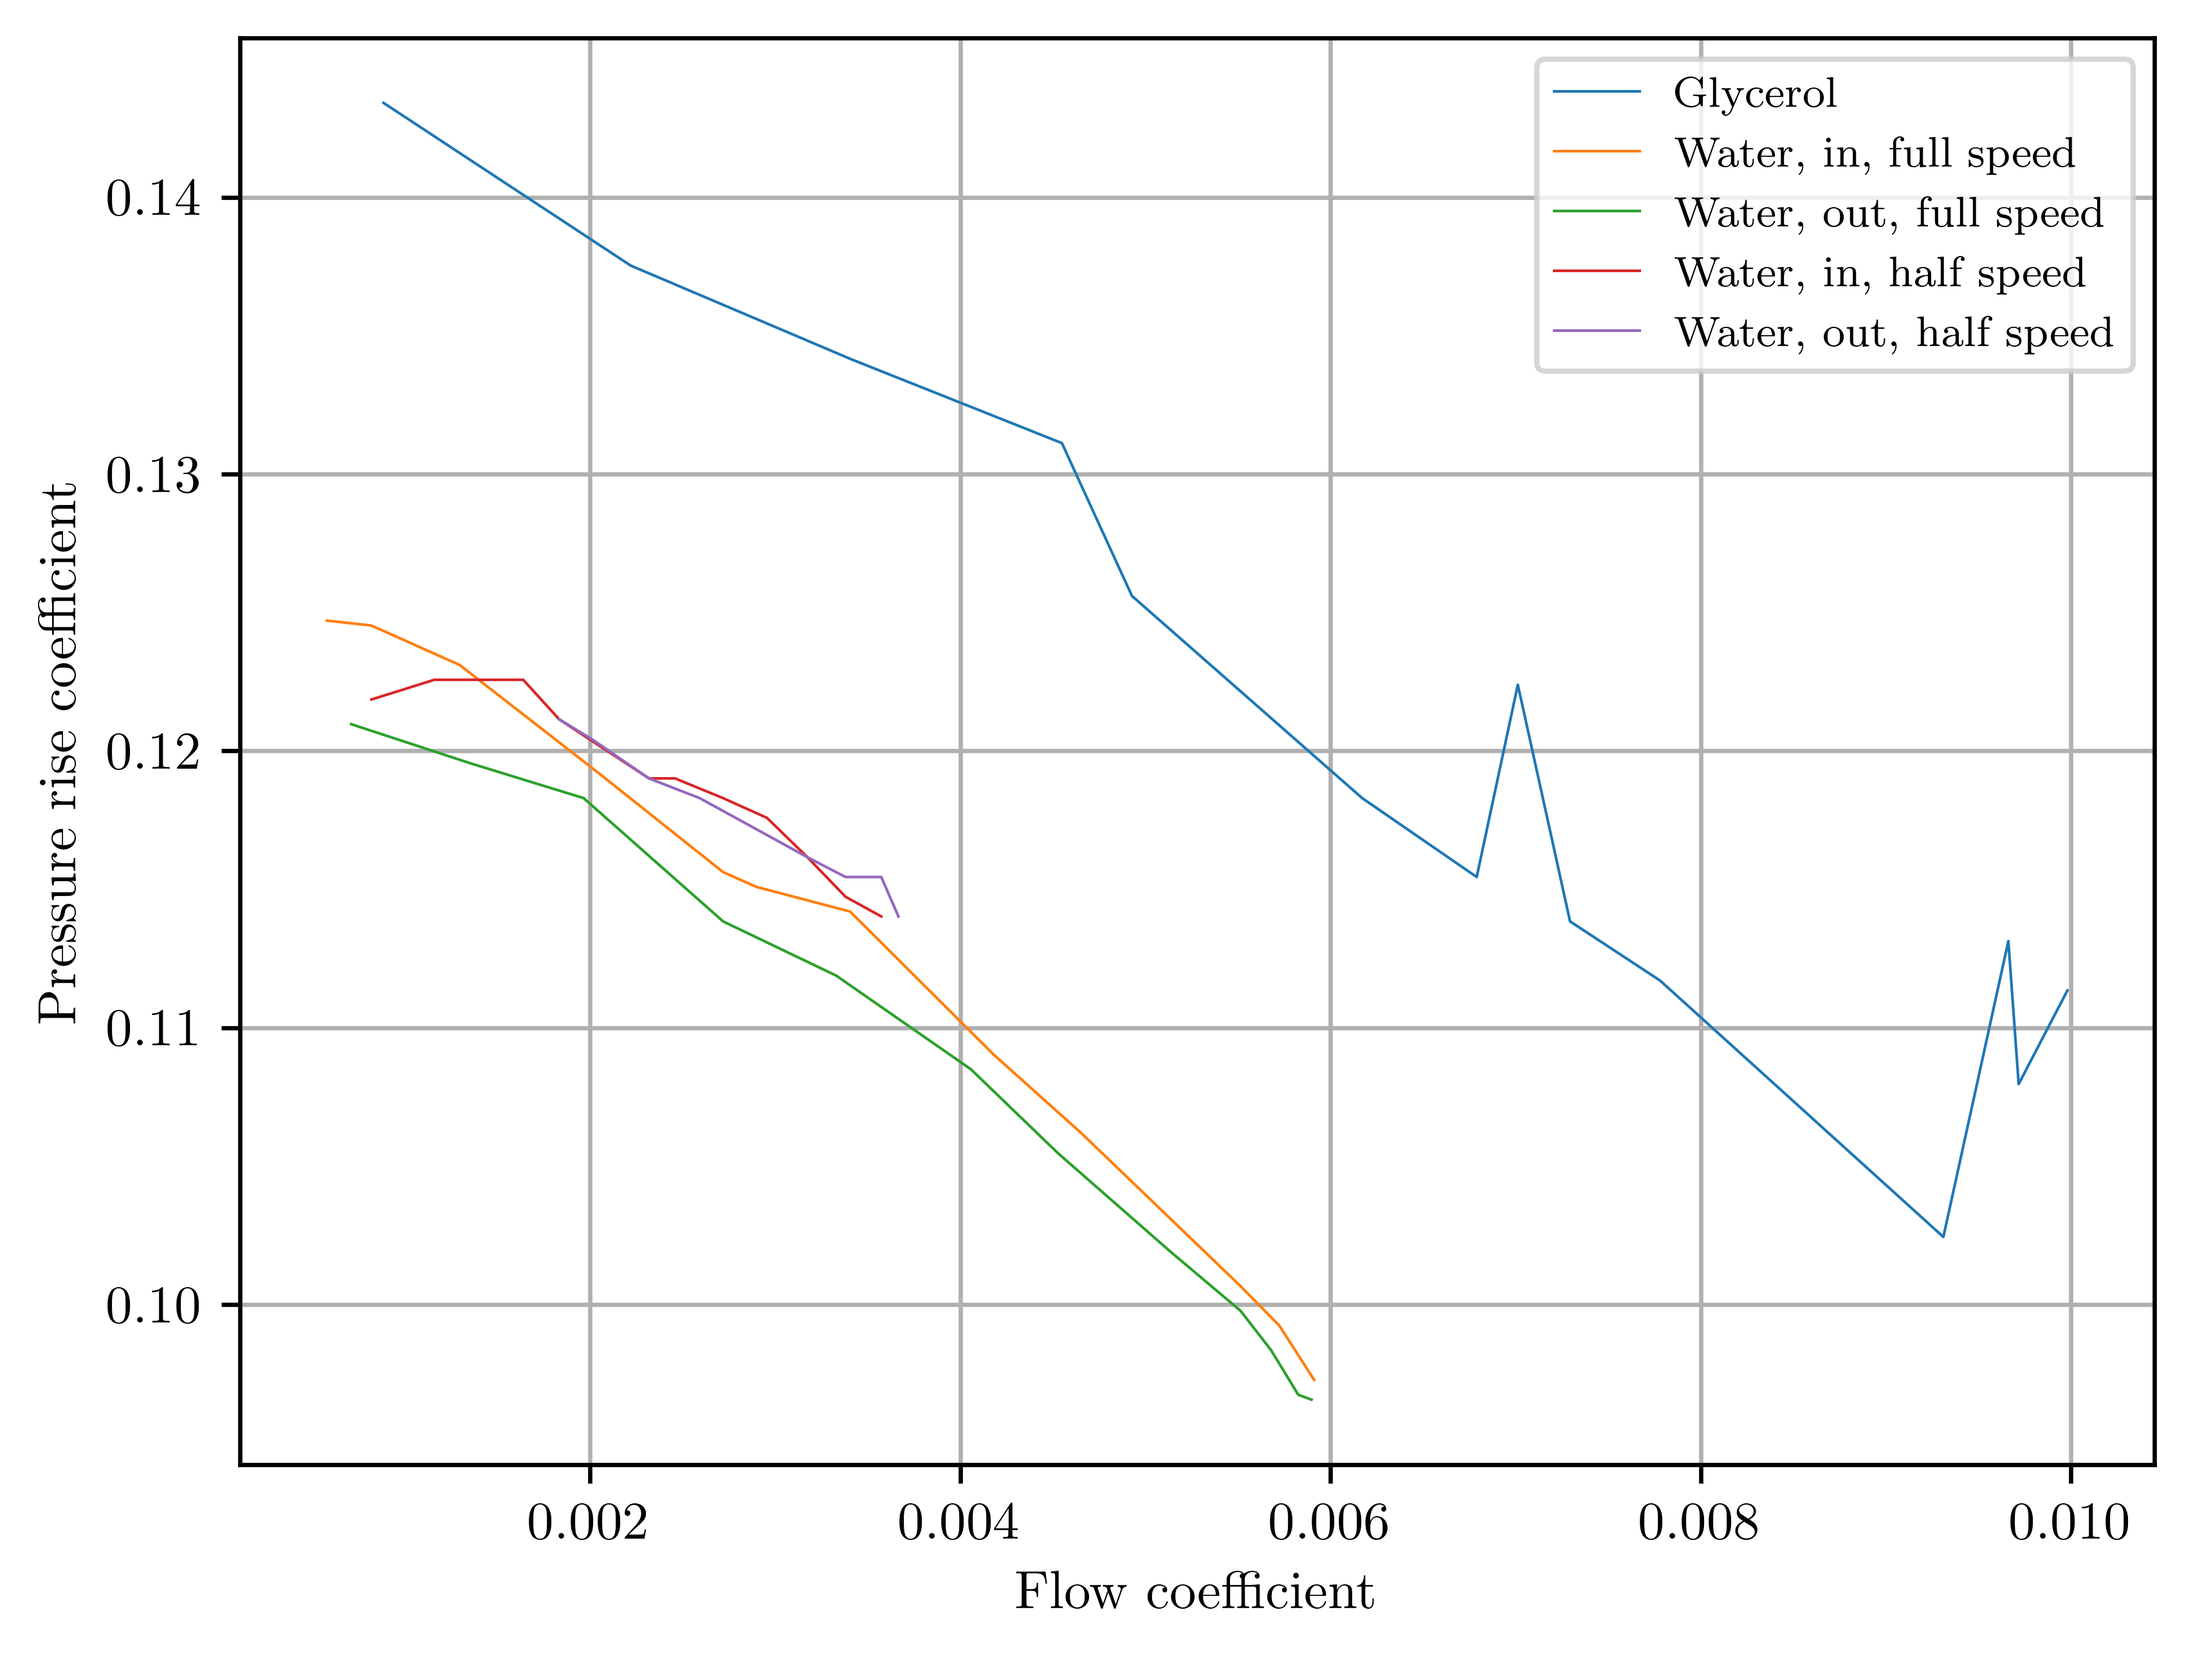
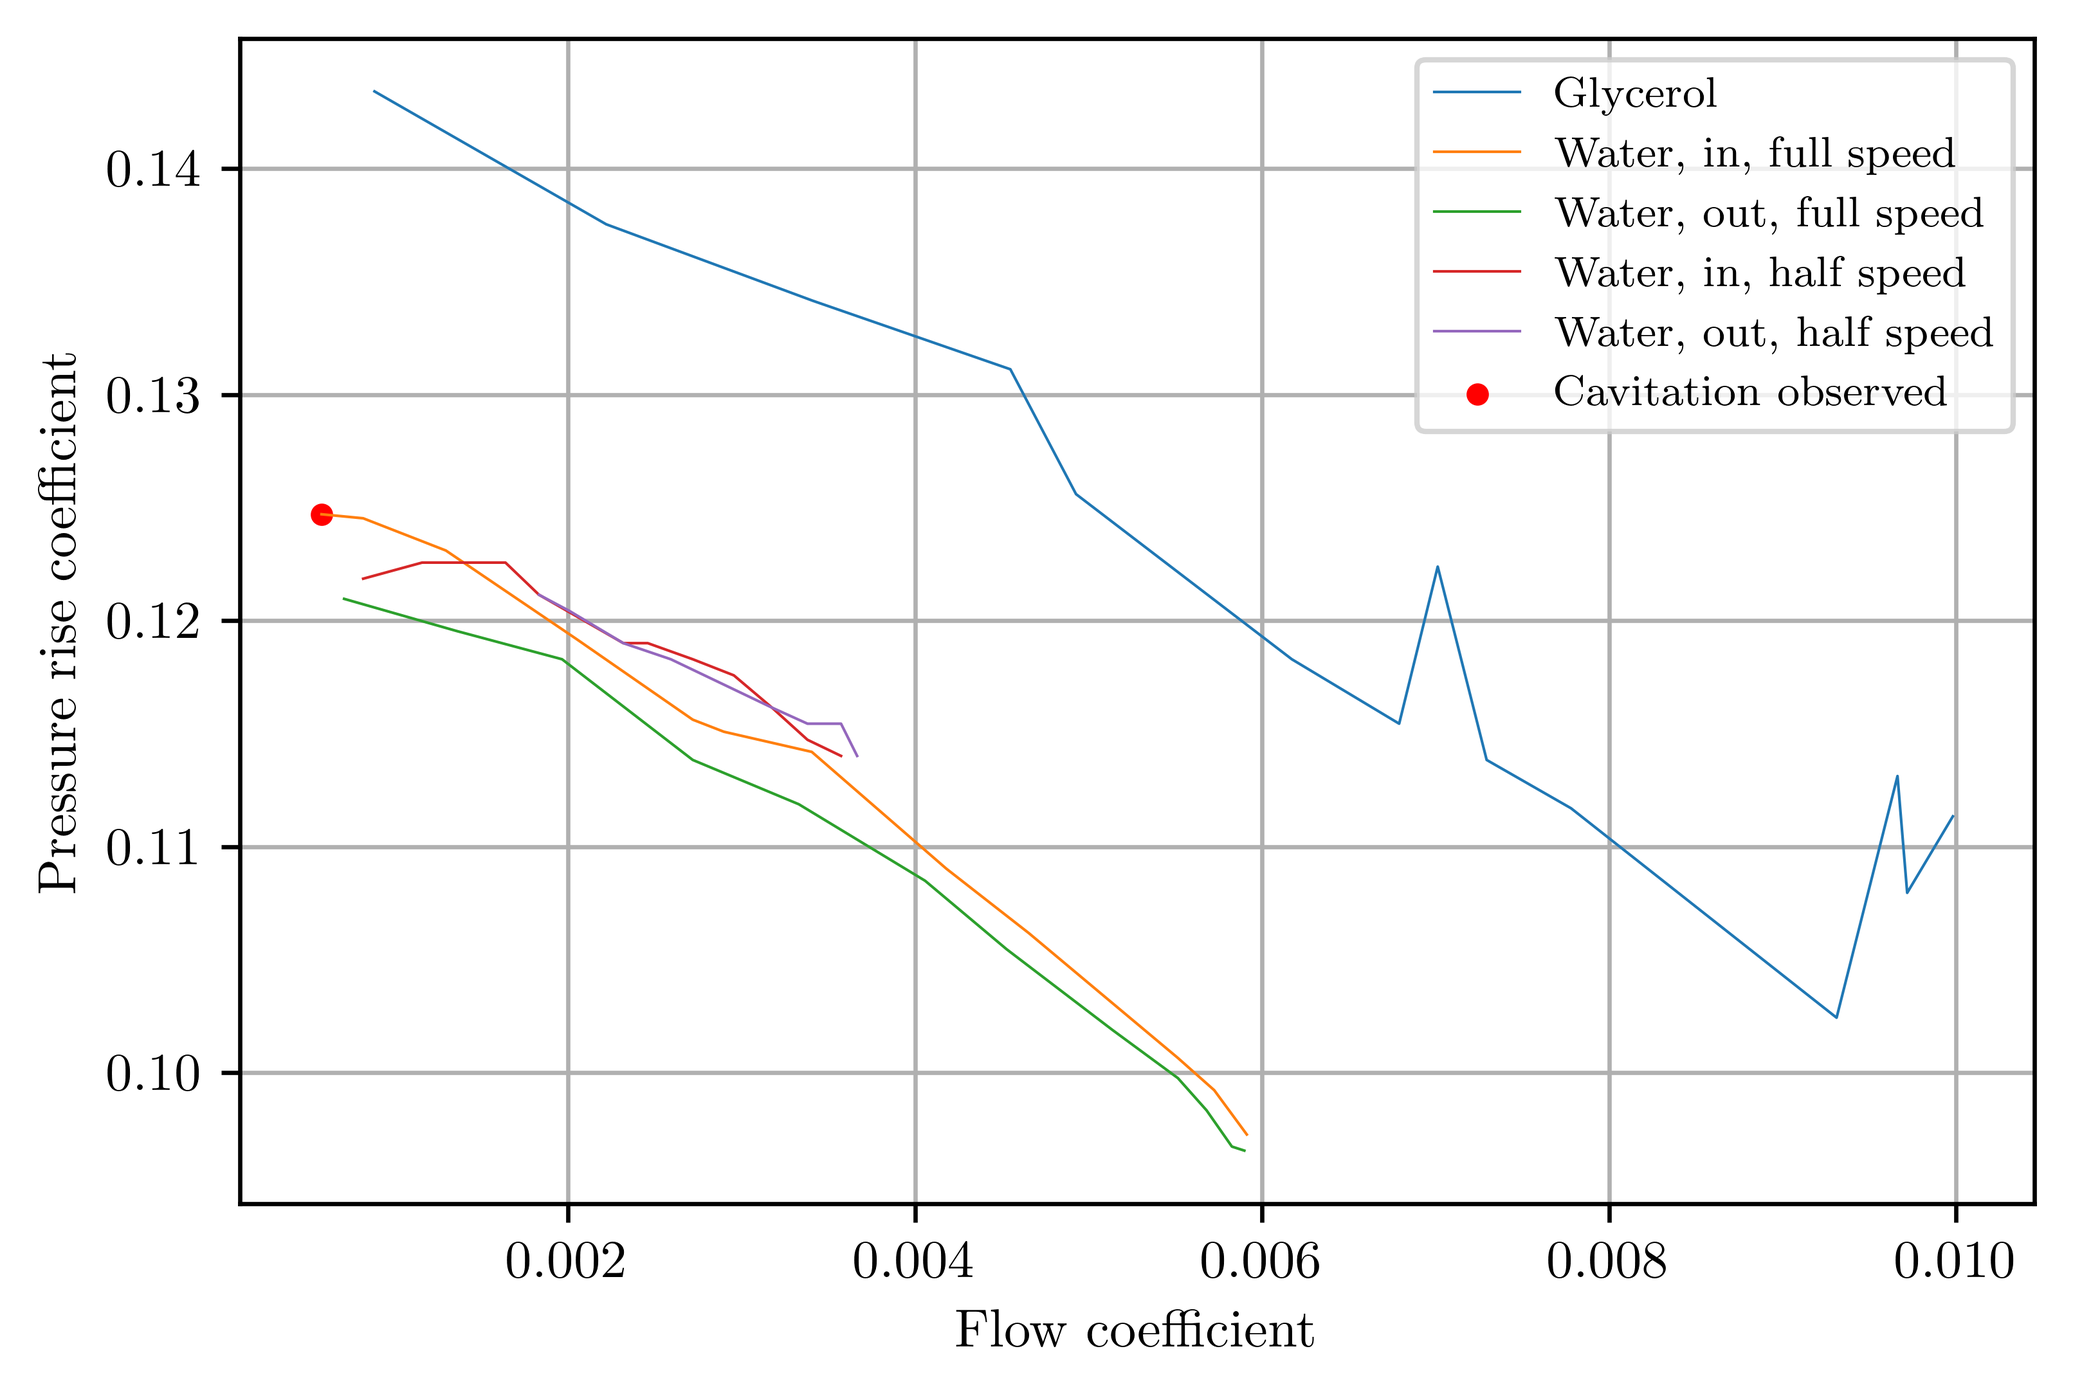
progress with 3A3

Changed region(s): [[0.0, 0.0, 0.9929, 0.9876], [0.5275, 0.3703, 0.5585, 0.4012], [0.3413, 0.1852, 0.3723, 0.216]]

diff --git a/IIA/3A3/Compressor_Lab/report.tex b/IIA/3A3/Compressor_Lab/report.tex
@@ -11,7 +11,7 @@
 \usepackage{subcaption}
 \usepackage{geometry}
 
-\newgeometry{vmargin={15mm}, hmargin={1in,1in}}
+\newgeometry{vmargin={1in}, hmargin={1in}}
 
 
 \title{3A3 Compressor Lab Report}
@@ -91,6 +91,7 @@ While the variation in temperature is small, the vapour pressure for each temper
 
 \subsection{Compressor Theory}
 
+An attempt to determine the relationship between pressure rise and flow rate was made using the following theory.
 For an isentropic compressor $Tds = 0 = dh_0 - vdp$ which relates the change specific stagnation enthalpy and static pressure as follows:
 \begin{equation}
     w_s = \int_{p_1}^{p_2} vdp = \int_{p_1}^{p_2} \frac{dp}{\rho}
@@ -111,7 +112,7 @@ It is important to note that these assumptions are not strictly true, and the re
 
 For the water setup, the flow rate was measured using a venturi flume, which measures the pressure difference across a constriction in the flow.
 \begin{equation}
-    \dot{m} = C_f A_1 \sqrt{\frac{2\rho_w \Delta p}{1 - \left( \frac{A_1}{A_2} \right)^2}}
+    \dot{m} = C_f A_1 \sqrt{\frac{2\rho_w \Delta p}{1 - \left( \frac{A_1}{A_2} \right)^2}} \label{eq:venturi_flume}
 \end{equation}
 The calibrated discharge coefficient, and geomtry of the venturi flume were given in the form of a constant $a=0.193$ such that $\dot{m}=a \sqrt{\Delta p}$
 
@@ -166,10 +167,7 @@ However, using equation \ref{eq:radial_velocity} gives $V_1 = 1.913 m/s$, $\chi_
 Accounting for the thickness of the blade has a significant effect on the radial velocity,
 However, the angle of the relative velocity is not significantly affected.
 
-As the inlet flow rate is decreased, so will the radial velocity, but the tangential velocity $u_1$ will be kept constant.
-From the velocity diagram, this should mean that the angle of the relative velocity, $\chi_1$ should decrease.
-However, this is fixed by the geomtry of the impeller.
-This means that our assumption that the inlet flow velocity is purely in the radial direction is not true.
+These are close to the measured geometry of the impeller, and so the assumptions made are reasonable.
 
 % Draw a velocity triangle for this situation and determine the relative velocity at the inlet to the
 % rotor blade. 
@@ -282,7 +280,7 @@ The ratio of dynamic viscosities of the fluids is given by the ratio of time to 
 \begin{figure}[H]
     \centering
     \includegraphics[width=0.9\textwidth]{pressure_reynolds.png}
-    \caption{Reynolds number at tip for various compressor conditions and setups.}
+    \caption{Pressure coefficient against tip Reynolds number for various compressor arrangements.}
     \label{fig:compressor_pressure_re}
 \end{figure}
 
@@ -299,15 +297,14 @@ However, the gradient of the curves appears to initially increase, and then rema
 This was not expected, and is likely due to the compressor power increasing to maintain the same speed as the flow rate increases.
 The isentropic efficiency of the compressor will also decrease at higher flow rates.
 
+The area of the compressor channel increases, and so by continuity the velocity must decrease.
+From Bernoulli's equation, this means that the pressure must increase in the radial direction.
+The contribution of pressure on the torque of the compressor is the distance from the centre of the impeller multiplied by the circumferential component of pressure.
+This may explain why impeller blades are curved, as to decrease this component of pressure further away from the centre of the impeller, reducing the torque and increasing efficiency.
+
+
 % Explain why throttling the water compressor at inlet and exit produce different cavitation
 % results. Also explain why the pressure rise is similar when cavitation is not present.
-%%
-
-Cavitation affect on pressure rise.
-
-
-%% Change of pressure rise with Reynolds number. Reference to figure 3 may be useful -
-%% k/d is comparable to the roughness height of the blade surface divided by the channel span
 
 %% Change in cavitation with rotor speed and throttle location? Sketch two velocity
 %% triangles, one at a nominal design condition and when the flow coefficient is much lower.
@@ -319,22 +316,57 @@ Audible noise was also heard at lower inlet pressures where more severe cavitati
 Cavitation bubbles were also observed to coalesce to form larger bubbles, which then collapsed.
 This suggests that more severe caviation was occuring at the lower inlet pressures.
 
+Cavitation was not observed for varying the outlet valve because throttling the outlet valve increases the pressure at compressor outlet.
+This means that the pressure at the inlet is also increased and so the minimum pressure is above the vapour pressure of water,
+and so cavitation is not expected to occur.
+
 The location of cavitation was observed to be on the pressure surface but appeared to be further from the inlet than expected.
 This means that the lowest static pressure is not at the inlet, and is instead further downstream on the trailing edge.
+A possible reason for this may be that the flow must accelerate around the corner of the leading edge (See figure \ref{fig:flow_scenario_velocity_diagrams}), and so the pressure is
+lowest further downstream than at the section of minimum area between leading and trailing edges.
 
+The impact of cavitation on compressor performance was difficult to observe, as only one point of cavitation was observed.
+However, it can be seen that just before the point of cavitation, the pressure rise coefficient appears to be constant with flow coefficient.
+This is due to compressible 
 
+%% Change of pressure rise with Reynolds number. Reference to figure 3 may be useful -
+%% k/d is comparable to the roughness height of the blade surface divided by the channel span
 
 %$ Can you explain the differences? Note that the two compressors do not give exactly the same
 %% pressure rise-flow rate characteristics, and so care must be taken in comparing the effect of
 %% Reynolds number.
 
+Figure \ref{fig:compressor_pressure_re} shows that the Reynolds number of the glycerol setup is much lower than that of water.
+This was expected due to its higher viscosity.
+
+
+% Change in cavitation with rotor speed and throttle location? Sketch two velocity
+% triangles, one at a nominal design condition and when the flow coefficient is much lower
+
+\begin{figure}[H]
+    \centering
+    \includegraphics[width=0.6\textwidth]{flow_scenario_velocity_diagrams.jpg}
+    \caption{Velocity diagrams for the compressor at nominal design condition and when the flow coefficient is much lower. The dashed line indicates the angle of blade leading edge.}
+    \label{fig:flow_scenario_velocity_diagrams}
+\end{figure}
+
+The velocity diagrams for low flow and low speed are shown in figure \ref{fig:flow_scenario_velocity_diagrams}.
+When compared to nominal design conditions at both high speed and high flow, the relative velocity is initially not aligned with the blade angle.
+This means that the flow must turn to align with the blade angle.
 
 % Suggest a reason why the venturi might not be suitable for measuring the flow rate of the
 % glycerine solution.
-The venturi flume 
+The venturi flume may not be suitable for measuring flows of high viscosity fluids, as equation for mass flow rate \ref{eq:venturi_flume} 
+is derived from Bernoulli's equation which assumes invicid flow.
 
 \section{Conclusion}
 % Summarize the main findings of the experiment and draw conclusions based on the results.
+
+In conclusion, five compressor arrangements were tested, and the pressure rise and flow coefficients were calculated and plotted.
+The pressure rise coefficient was found to decrease with increasing flow coefficient, 
+which was correctly predicted from theory derived with a constant energy assumption.
+Incompressible and invicid flow assumptions were used to understand pressure and velocity changes in the radial direction.
+
 
 \section{Appendix}
 
